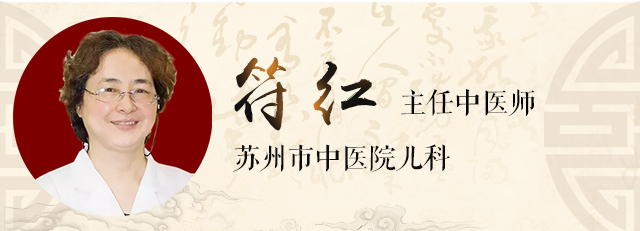
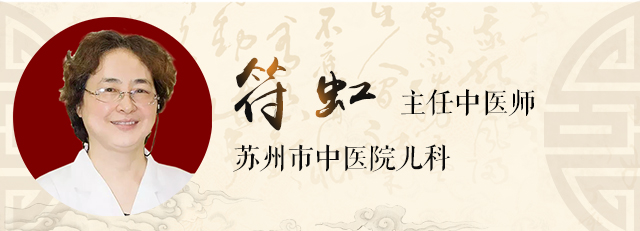
fh

Changed region(s): [[0.4688, 0.2727, 0.5938, 0.5455]]

diff --git a/js/zjList.js b/js/zjList.js
@@ -84,7 +84,7 @@ var zjList = {
   xujue: ['徐珏', '中医科;肾病/ 内分泌科', '2020-11-15;2020-11-22;2020-11-29','下午', '7', '苏州市中医院'],
   jianghuiming: ['蒋惠明', '中医科;风湿免疫科', '2020-11-16;2020-11-23;2020-11-30', '上午', '1', '苏州市中医院'],
   wangyue: ['王跃', '中医科', '2020-11-23','上午下午', '1', '孟河医派传承人'],
-  fuhong: ['符红', '中医科', '2020-11-29','上午', '7', '苏州市中医院'],
+  fuhong: ['符虹', '中医科', '2020-11-29','上午', '7', '苏州市中医院'],
   xudeyi: ['徐德颐', '中医科', '2020-11-22','下午', '7', '苏州市中医院'],
 
   

diff --git a/js/zj.js b/js/zj.js
@@ -626,7 +626,7 @@ var profile = [
   },
   {
     pinyin: 'fuhong',
-    name: '符红',
+    name: '符虹',
     title: '主任中医师',
     hospital: '苏州市中医院儿科',
     skilled: '擅长：运用中医、中西医结合治疗小儿呼吸、消化、泌尿系统疾病，在小儿支气管哮喘、慢性咳嗽、反复呼吸道感染、急慢性腹泻、胃炎、反复呼吸道感染、急慢性腹泻、胃炎、反复性腹痛、急慢性肾炎、过敏性紫癜、生长发育迟缓、性早熟、汗症、睡眠障碍以及多发性抽动等疑难杂症的中医药治疗方面积累了丰富的临床经验。',

diff --git a/js/zkks.js b/js/zkks.js
@@ -61,7 +61,7 @@ function td (ks) {
     ) {
       tds = tds + '<div class="td">无号</div>'
     } else {
-      tds = tds + '<div class="td"><a href="/gh/?tag=' + tag + '&keshi=' + ks + '&date=' + weekArr(getOneWeekData()[j].monthDate) + '">有号</a></div>'
+      tds = tds + '<div class="td"><a href="/gh/index.html?tag=' + tag + '&keshi=' + ks + '&date=' + weekArr(getOneWeekData()[j].monthDate) + '">有号</a></div>'
     }
   }
   return tds;

diff --git a/layout.css b/layout.css
@@ -502,3 +502,7 @@ header img {
       border-radius: 4px;
       font-size: 0.8rem;
     }
+
+	.el-message{
+		min-width: 60%;
+	}
